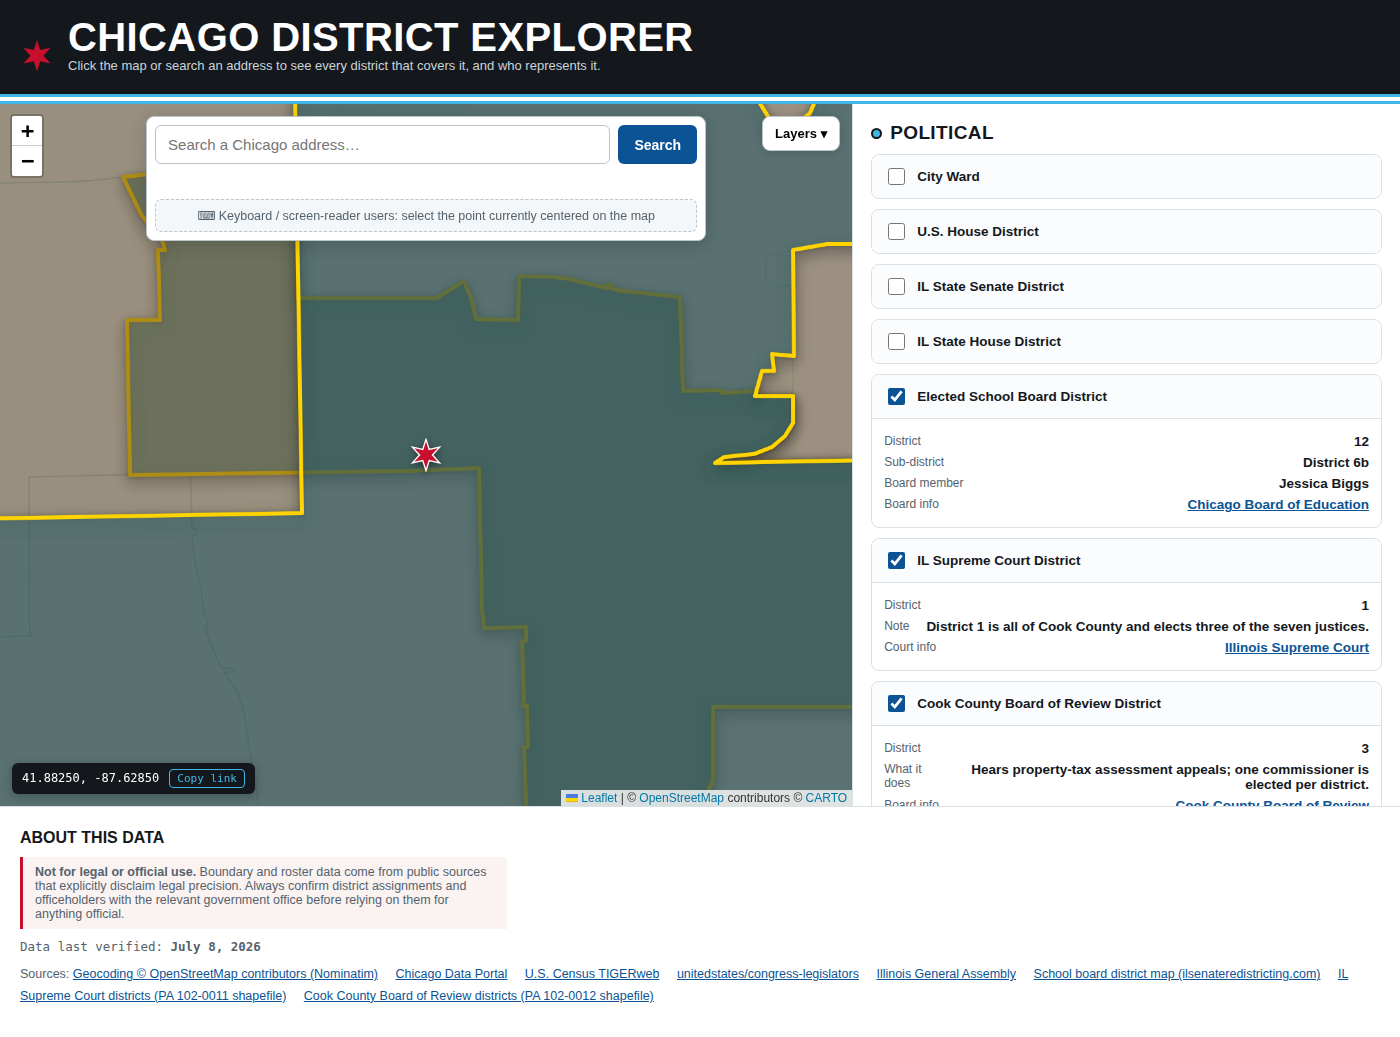
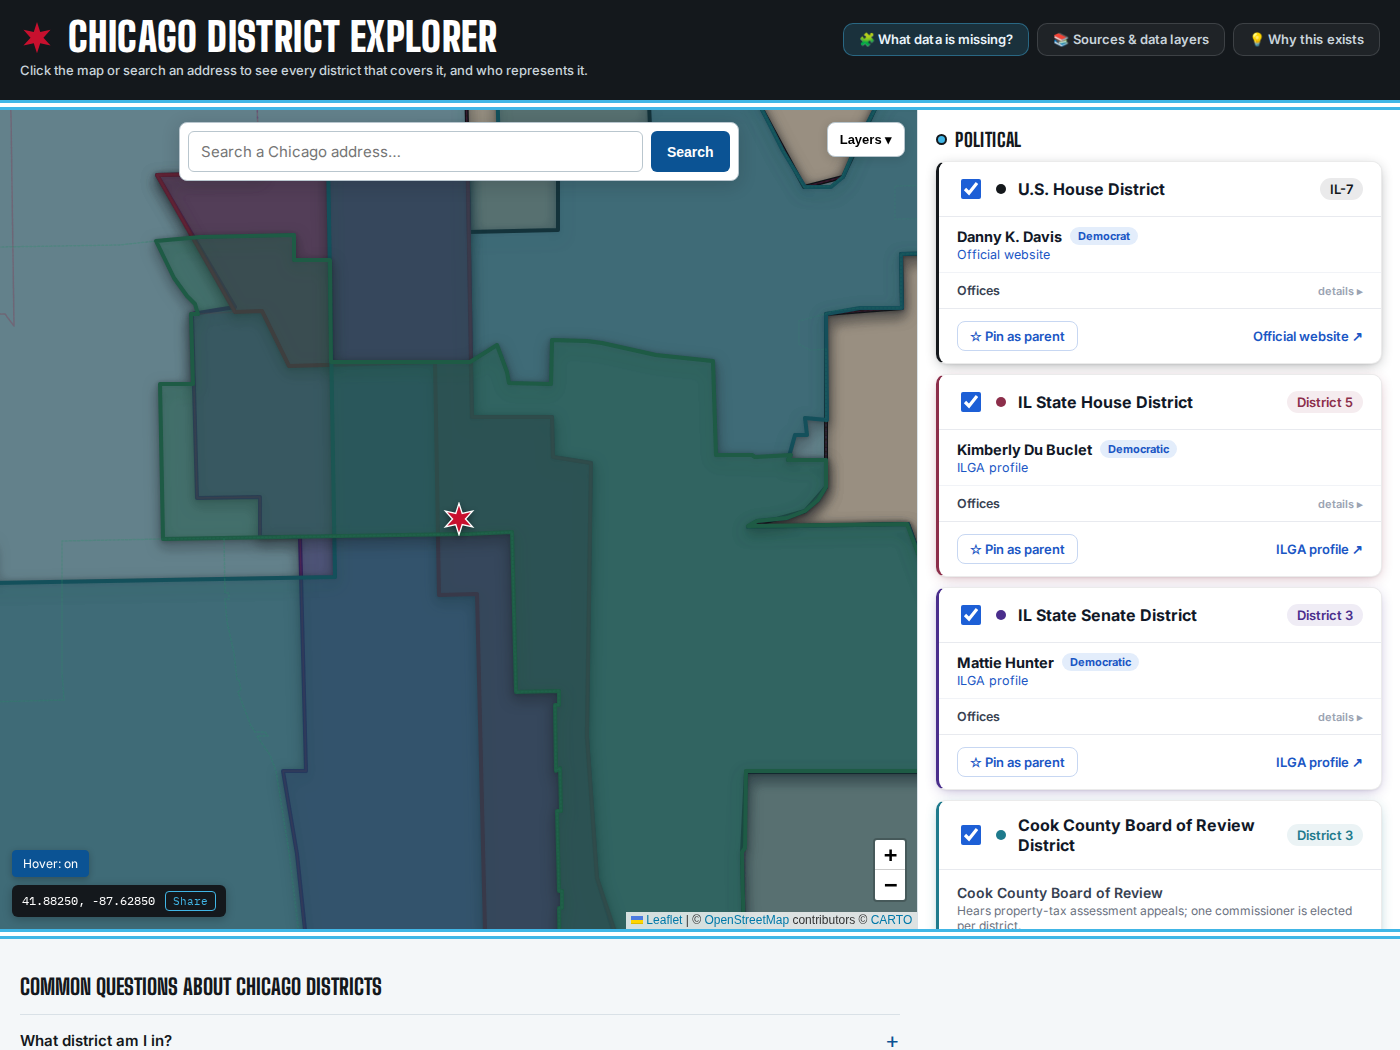
Refresh the docs the last three counties left behind, screenshot included
Franklin, Clinton and Warren moved facts that live in prose, and prose does not
regenerate. Sweeping for them found four stale places and one badly stale image.

THE SCREENSHOT was from 2026-08-10 and showed an app that no longer exists: no
masthead buttons, and an "ABOUT THIS DATA" footer carrying a ten-link source row
and a hand-written verified date — the surface sources.html replaced. Retaken
against the current build at the same downtown point.

The retake needed one correction worth recording. The obvious layer set left
City Ward and County Board District sitting on "Loading district data…", because
those read live APIs this sandbox's Chromium cannot reach, and a screenshot of
two permanently-loading cards misrepresents the app. Reshot with the pre-built
same-origin layers instead — U.S. House, IL State House, IL State Senate, Cook
County Board of Review — every card populated with its officeholder, and the
Board of Review resolving to District 3, which is the Loop ground truth
validate_index checks. The map still has no basemap tiles: CARTO is equally
unreachable here, and the image it replaces had none either.

README: 69 → 72 counties, 111 → 110 gaps, and the enclave sentence now names
THREE — Bureau, Christian, and Knox since Warren's join on 21 August closed the
last gap in its ring. Alt text rewritten to describe what the new image shows.

DATA_LAYER_GUIDEBOOK, the vendor backlog entry: it claimed "Fourteen are
[…]

diff --git a/docs/DATA_LAYER_GUIDEBOOK.md b/docs/DATA_LAYER_GUIDEBOOK.md
@@ -5307,7 +5307,7 @@ matrix; when one is rejected, move the rationale into a NO HONEST ANALOG footnot
 > | Open item | Blocker | Actionable? |
 > |---|---|---|
 > | **Winnebago voting precincts, free and public** (found 2026-08-05 while measuring what Stephenson's Clerk meant by "GIS" — see the ask ledger) — `maps.wingis.org/public/rest/services/WardsAndDistricts/MapServer`, no token, layer 7 **WinCo Voting Precincts**, alongside Winnebago County Board, political townships and the Rockford/Loves Park/Machesney Park ward layers. Winnebago is a served county that ships **no precinct layer**. The same host's `ElectedOfficials` service carries per-municipality officeholder layers (already the source behind Winnebago's municipal roster) | none found — the service is open and answers unauthenticated | **yes — a build, not a research question** |
-> | **The `pollresults.net` / `accessliberty.com` county pair** (found 2026-08-18 while building Clark) — one election-results vendor serving **34 Illinois counties**, each at `il-<county>.accessliberty.com` (the Clerk's site, one TEXT-LAYER certified canvass PDF per election back to ~2006) and `il-<county>.pollresults.net` (an AngularJS shell whose ENTIRE result set is embedded in the page as JSON — no API, no key, one GET). Its own navigation names them: Bond, Boone, Bureau, Carroll, Christian, Clark, Clay, Coles, Crawford, DeWitt, Douglas, Edgar, Ford, Hardin, Kankakee, LaSalle, Lee, Livingston, Logan, Macon, Macoupin, Marshall, Mason, Mercer, Montgomery, Moultrie, Ogle, Piatt, Putnam, Shelby, Stephenson, Tazewell, Vermilion, Whiteside. **Fourteen are unserved, including BOTH enclaves (Bureau, Christian) and three counties with open Clerk threads (Crawford, Mercer, Clay).** Clark proved what this is worth: precinct-level canvasses turn a "no map" county into a buildable one whenever its board districts are unions of whole precincts, and they answer §2.5 step 2 (districted or at-large) without anyone replying to an e-mail | none — the pages are public and static; the work is per-county, and each still needs the Jasper test (do the census VTDs match the county's CURRENT precincts?) before any dissolve ships | **yes — a research pass, unstarted** |
+> | **The `pollresults.net` / `accessliberty.com` county pair** (found 2026-08-18 while building Clark) — one election-results vendor serving **34 Illinois counties**, each at `il-<county>.accessliberty.com` (the Clerk's site, one TEXT-LAYER certified canvass PDF per election back to ~2006) and `il-<county>.pollresults.net` (an AngularJS shell whose ENTIRE result set is embedded in the page as JSON — no API, no key, one GET). Its own navigation names them: Bond, Boone, Bureau, Carroll, Christian, Clark, Clay, Coles, Crawford, DeWitt, Douglas, Edgar, Ford, Hardin, Kankakee, LaSalle, Lee, Livingston, Logan, Macon, Macoupin, Marshall, Mason, Mercer, Montgomery, Moultrie, Ogle, Piatt, Putnam, Shelby, Stephenson, Tazewell, Vermilion, Whiteside. **EIGHT are unserved as of 2026-08-21 — Bureau, Christian, Clay, Douglas, Ford, Hardin, Piatt and Vermilion — down from fourteen as Clark, Coles, Crawford, Edgar, Macoupin, Mercer, Moultrie and Shelby shipped; two of the eight are enclaves (Bureau, Christian).** AND THE LIST OVERSTATES WHAT IS REACHABLE, measured 2026-08-21: probing `pastelections.aspx` across all thirty frontier counties, only BUREAU (68 canvasses) and CHRISTIAN (60) actually return an archive — every other frontier county 404s with a ~9.6 KB error page, and the two carried ones are already measured shut for reasons the vendor cannot fix (Bureau splits precincts between districts; Christian re-precincted, and its own download handler 404s on the pageid/mid pair its page advertises). So this route is EXHAUSTED for the current frontier rather than merely unworked. Clark proved what this is worth: precinct-level canvasses turn a "no map" county into a buildable one whenever its board districts are unions of whole precincts, and they answer §2.5 step 2 (districted or at-large) without anyone replying to an e-mail | none — the pages are public and static; the work is per-county, and each still needs the Jasper test (do the census VTDs match the county's CURRENT precincts?) before any dissolve ships | **yes — a research pass, unstarted** |
 > | **The ISBE precinct-map collection** (found 2026-08-05 via Hamilton's Clerk — see the ask ledger) — `elections.il.gov/PrecinctMaps/<County>/`, **98 of 102 counties**, open directory listings. A 14-county sample measured **3 vector / 11 scan**, so the lead is the vector subset (Knox, Menard, Williamson confirmed so far). Knox's and Menard's files were checked and CONFIRM their existing gap records (2011 content; raster) rather than closing them | needs a per-county download-and-extract pass to find which counties' maps are vector AND current | **yes — a cheap research pass, unstarted** |
 > | ~~**Pass-14 first fruit — Hamilton**~~ **SHIPPED 2026-08-05, the forty-fifth dispatched county and SECOND island**, four hours after its Clerk's four-minute reply settled the at-large question and surfaced the county's vendor-hosted GIS org: precincts 17 (one unnamed — `hamilton-unnamed-precinct`, asked back) + fire 3 named as dispatch entries; the five-member board rides the County card from the weekly commissioners scrape of the county's own new site. `hamilton-precinct-polling` CLOSED 2026-08-11 — the county's post-migration site published the Clerk's statutory GPE polling notice, all sixteen pairings (see the ask ledger). STILL OPEN: `hamilton-municipal-officials` | nothing | done — one live ask recorded |
 > | ~~**The pass-13 build-ready ledger** — Effingham~~ **SHIPPED 2026-08-04, same day — the forty-fourth dispatched county and the FIRST ISLAND** (§2.5.1 checklist exercised: metro-outline.json is now a MultiPolygon, the island proven an OUTER ring by anchor, the Vandalia/Shelbyville corridor proven washed): board 9 districts A–I with the roster ON the features (no scraper — the county's own live service is the officeholder source), precincts 38 (polling 38/38), fire 17, park 4, library 1. The build's verification also caught findPropCI's lowercase-candidate contract being violated by six `keys:` entries — Macon's fire/park/library cards had shipped reading "Unknown" — fixed in the same change. STILL OPEN: `effingham-municipal-officials` (12 municipalities, no councils source) | nothing | done — municipal officials stay a recorded gap |

diff --git a/README.md b/README.md
@@ -6,7 +6,7 @@
 
 A single-file, dependency-light web app: one `index.html`, Leaflet for the map, no build step, no framework, no server-side code. Deployed as a static site to [chidistricts.com](https://chidistricts.com/) — any static host or server works.
 
-![Chicago District Explorer showing a selected point with the Elected School Board, IL Supreme Court, and Board of Review layers on](docs/screenshot.png)
+![Chicago District Explorer showing a downtown point with the U.S. House, IL State House, IL State Senate and Cook County Board of Review layers on, each card naming the officeholder](docs/screenshot.png)
 
 This is the reference implementation of a small fleet of sibling metro forks ([nyc.chidistricts.com](https://nyc.chidistricts.com/), [sf.chidistricts.com](https://sf.chidistricts.com/)). The metro-agnostic engine inside `index.html` stays byte-identical across forks; everything city-specific lives in `metro-worksheet.json` and the `METRO:BEGIN config` block. The fleet-wide layer inventory is [`docs/DATA_LAYER_GUIDEBOOK.md`](docs/DATA_LAYER_GUIDEBOOK.md).
 
@@ -14,9 +14,9 @@ This is the reference implementation of a small fleet of sibling metro forks ([n
 
 Pick a point. The app runs a point-in-district lookup across every layer you have toggled on and builds a "civic profile" for that location. 39 layers ship today; layers are location-aware, so city-only layers hide outside Chicago, county-scoped layers appear only inside the counties that publish them, and the statewide layers work anywhere in Illinois.
 
-Coverage started as the seven Chicago-metro counties and has grown to **69 counties** (as of 19 August 2026; the generated [county status table](docs/COUNTY_STATUS.md) is always current) — north to the Wisconsin line, west to the Mississippi, and south through the Metro East to the Missouri border. Growth followed county adjacency until August 2026 and now follows published data wherever it surfaces: Effingham County, the first detached addition, joined on the strength of its own GIS; Hamilton County followed a day later when its Clerk answered one email in four minutes, and stopped being detached once Jefferson County — which borders both it and the mainland — shipped; Effingham itself stopped being detached the same way a week later, when Shelby County joined between it and the mainland, and the Edwards–Wabash island merged back when White County joined. No island stands today, and two unserved counties — Bureau, and Christian since Shelby's arrival enclosed it — sit entirely surrounded by served ones. Six consolidated layers (County Board, Judicial Subcircuit, Fire Protection District, Park District, Library District, Voting Precinct) span every county that publishes the data and pick the right county's source automatically; where a county elects its board countywide instead of by district, its commissioners appear on the County card, because there is no district to draw.
+Coverage started as the seven Chicago-metro counties and has grown to **72 counties** (as of 21 August 2026; the generated [county status table](docs/COUNTY_STATUS.md) is always current) — north to the Wisconsin line, west to the Mississippi, and south through the Metro East to the Missouri border. Growth followed county adjacency until August 2026 and now follows published data wherever it surfaces: Effingham County, the first detached addition, joined on the strength of its own GIS; Hamilton County followed a day later when its Clerk answered one email in four minutes, and stopped being detached once Jefferson County — which borders both it and the mainland — shipped; Effingham itself stopped being detached the same way a week later, when Shelby County joined between it and the mainland, and the Edwards–Wabash island merged back when White County joined. No island stands today, and three unserved counties sit entirely surrounded by served ones: Bureau; Christian, since Shelby's arrival enclosed it; and Knox, since Warren's arrival on 21 August closed the last gap in its ring. Six consolidated layers (County Board, Judicial Subcircuit, Fire Protection District, Park District, Library District, Voting Precinct) span every county that publishes the data and pick the right county's source automatically; where a county elects its board countywide instead of by district, its commissioners appear on the County card, because there is no district to draw.
 
-Where a county publishes nothing, the app says so rather than guessing: the **Data gaps** panel lists every recorded absence — 111 as of 19 August 2026 — each naming the specific artifact its publisher would have to release.
+Where a county publishes nothing, the app says so rather than guessing: the **Data gaps** panel lists every recorded absence — 110 as of 21 August 2026 — each naming the specific artifact its publisher would have to release.
 
 | Group | Layer | What you get |
 |---|---|---|
